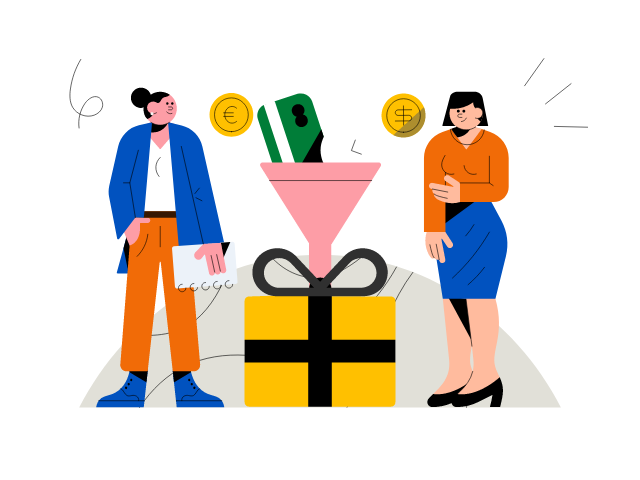
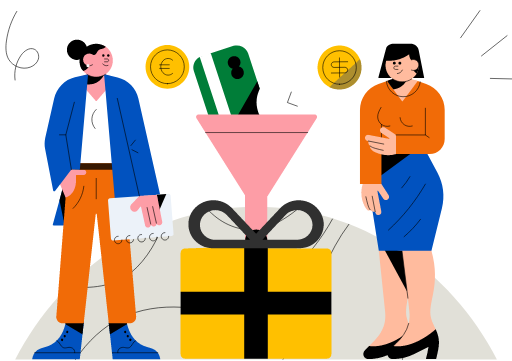
Updated 10 files and created 2 new files

diff --git a/src/modules/donations/donations.js b/src/modules/donations/donations.js
@@ -1,0 +1,121 @@
+import React, { useEffect, useRef } from 'react';
+import { Button, Divider, Input } from 'semantic-ui-react';
+
+import useMergedState from '../../utils/useMergedState';
+
+import FUNDRAISING_IMG from "../../assets/png/fundraising.png"
+import { VALIDATION_REGEX } from '../../constants/common.constants';
+import { isPositiveNumber } from '../../utils/validations';
+import { executeScrollToRef } from '../../utils/common.utils';
+import { ApiCall } from '../../utils/api.util';
+
+import "./donations.scss";
+
+const { NUMBERS_AND_EMPTY } = VALIDATION_REGEX;
+
+const Donations = () => {
+    const [state, setState] = useMergedState({
+        amount: { value: "", error: [] },
+        xummPngLink: "",
+    });
+    const amountRef = useRef();
+    const { amount, xummPngLink } = state;
+
+    useEffect(() => {
+        executeScrollToRef(amountRef);
+    }, []);
+
+    const handleAmountInput = (e, res) => {
+        const { value } = res;
+
+        if (NUMBERS_AND_EMPTY.test(value)) {
+            const { error } = isPositiveNumber(value);
+            setState({
+                amount: {
+                    error,
+                    value,
+                }
+            });
+        }
+    };
+
+    const onAmountBtnClick = (value) => setState({ amount: { value, error: [] } });
+
+    const checkFieldValues = () => {
+        let isValid = true;
+        const { error } = isPositiveNumber(amount.value);
+
+        if (error.length > 0) {
+            isValid = false;
+            setState({
+                amount: {
+                    ...amount,
+                    error,
+                }
+            });
+        };
+
+        return isValid;
+    }
+
+    const onDonationBtnClick = () => {
+        const isValid = checkFieldValues();
+
+        if (isValid) {
+            const payload = {
+                method: "POST",
+                url: "user/donate",
+                encrypt: false,
+                auth: false,
+                data: {
+                    amount: (parseFloat(amount.value) * 1000000).toString(),
+                },
+            };
+
+            ApiCall(payload)
+                .then((response) => {
+                    if (response.data) {
+                        const { png } = response.data;
+                        setState({ xummPngLink: png });
+                    }
+                }).finally(() => {
+                    executeScrollToRef(amountRef);
+                });
+        };
+    }
+
+    return (
+        <div className="donations_container">
+            <div className="donations_quote">Small steps make a big difference. <br /> Your contribution matters!</div>
+            <Divider />
+            <div className="img_container">
+                {xummPngLink.length > 0 && <div className="scan_me">Scan me using XUMM</div>}
+                <img src={xummPngLink.length > 0 ? xummPngLink : FUNDRAISING_IMG} alt="donation_img" className="img" />
+            </div>
+            <div className="input_field" ref={amountRef}>
+                <div className="label">Amount (in XRP):</div>
+                <Input
+                    placeholder="Please enter donation amount (in XRP)"
+                    name="amount"
+                    type="tel"
+                    style={{ width: "100%" }}
+                    value={amount.value}
+                    onChange={handleAmountInput}
+                    error={amount.error.length > 0}
+                />
+            </div>
+            <div className="amount_selection">
+                <Button className="amount_btn" onClick={() => onAmountBtnClick("10")}>10 XRP</Button>
+                <Button className="amount_btn" onClick={() => onAmountBtnClick("100")}>100 XRP</Button>
+                <Button className="amount_btn" onClick={() => onAmountBtnClick("1000")}>1000 XRP</Button>
+            </div>
+            <div className="donate_btn">
+                <Button color="green" onClick={onDonationBtnClick}>
+                    Donate
+                </Button>
+            </div>
+        </div>
+    );
+}
+
+export default Donations;

diff --git a/src/modules/donations/donations.scss b/src/modules/donations/donations.scss
@@ -1,0 +1,70 @@
+.donations_container {
+    display: flex;
+    line-height: 1.5;
+    flex-direction: column;
+
+    .img_container {
+        display: flex;
+        flex-direction: column;
+        justify-content: center;
+        text-align: center;
+        padding: 0 0 10px 0;
+
+        .scan_me{
+            font-size: 12px;
+            font-weight: bold;
+        }
+        
+        .img {
+            width: 200px;
+            height: 100%;
+            align-self: center;
+        }
+    }
+
+    .input_field {
+
+        .label {
+            color: var(--davys-grey);
+            padding-bottom: 4px;
+        }
+
+        input {
+            font-size: 12px;
+            border: 1px solid var(--gainsboro);
+            border-radius: 0px;
+        }
+    }
+
+    .donations_header {
+        font-size: 20px;
+        font-weight: bold;
+        text-align: center;
+    }
+
+    .donations_quote {
+        font-size: 18px;
+        color: var(--toastify-color-info);
+        text-align: center;
+    }
+
+    .amount_selection {
+        padding: 5px 0 0 0;
+
+        .amount_btn {
+            font-size: 11px;
+            padding: 5px 15px;
+            border-radius: 0px;
+        }
+    }
+
+    .donate_btn {
+        display: grid;
+        text-align: center;
+        padding: 24px;
+
+        button {
+            border-radius: 0px;
+        }
+    }
+}

diff --git a/src/routes.js b/src/routes.js
@@ -18,6 +18,7 @@ const Airdrops = React.lazy(() => import("./modules/airdrops/airdrops"));
 const DropDetails = React.lazy(() => import("./modules/airdrops/components/dropDetails/dropDetails"));
 const AirdropRegistration = React.lazy(() => import("./modules/airdrops/components/airdropRegistration/airdropRegistration"));
 const SuccessPage = React.lazy(() => import("./components/successPage/sucessPage"));
+const Donations = React.lazy(() => import("./modules/donations/donations"));
 
 export default function Routes() {
     const location = useLocation();
@@ -40,6 +41,7 @@ export default function Routes() {
                 <Route path={ROUTES.DROP_DETAILS} element={wrapWithNavBar(<DropDetails />)} />
                 <Route path={ROUTES.AIRDROP_REGISTRATION} element={wrapWithNavBar(<AirdropRegistration />)} />
                 <Route path={ROUTES.REQUEST_SUCCESS} element={wrapWithNavBar(<SuccessPage />)} />
+                <Route path={ROUTES.DONATIONS} element={wrapWithNavBar(<Donations />)} />
                 <Route path="/*" element={<div>Error</div>} />
             </RoutesBundle>
         </Suspense>

diff --git a/src/constants/common.constants.js b/src/constants/common.constants.js
@@ -13,6 +13,7 @@ export const ROUTES = {
     DROP_DETAILS: "/drop/:id",
     AIRDROP_REGISTRATION: "/airdrop/register",
     REQUEST_SUCCESS: "/request/success",
+    DONATIONS: "/donate",
 };
 
 export const ENV = process.env.NODE_ENV.toUpperCase();
@@ -39,4 +40,5 @@ export const VALIDATION_REGEX = {
     PASSWORD: /^(?=.{8,})(?=.*[a-z])(?=.*[A-Z])(?=.*[@#$%^&+=]).*$/,
     XRPL_R_ADDRESS: /^r[123456789ABCDEFGHJKLMNPQRSTUVWXYZabcdefghijkmnopqrstuvwxyz]{24,34}$/,
     URL: /[(http(s)?):\/\/(www\.)?a-zA-Z0-9@:%._\+~#=]{2,256}\.[a-z]{2,6}\b([-a-zA-Z0-9@:%_\+.~#?&//=]*)/,
+    NUMBERS_AND_EMPTY: /^(\s*|\d+)$/,
 };

diff --git a/src/components/navbar/navbar.js b/src/components/navbar/navbar.js
@@ -59,6 +59,10 @@ const Navbar = (props) => {
                         <Icon name="image outline" />
                         NFT Visualiser
                     </Menu.Item> */}
+                    <Menu.Item as="a" onClick={() => navigateTo(ROUTES.DONATIONS)}>
+                        <Icon name="heartbeat" />
+                        Donate
+                    </Menu.Item>
                     <Menu.Item as="a" onClick={onLogOutClick}>
                         <Icon name="log out" />
                         Logout

diff --git a/src/utils/validations.js b/src/utils/validations.js
@@ -86,3 +86,20 @@ export const isValidEqualValue = (value1, value2, message = "Your values don't m
         error: valid ? [] : [message],
     }
 };
+
+export const isPositiveNumber = (value, message = "Please enter a valid value.") => {
+    if (value.length === 0) {
+        return {
+            error: [message],
+            valid: false
+        }
+    };
+
+    value = parseInt(value);
+    const valid = value > 0;
+
+    return {
+        valid,
+        error: valid ? [] : [message],
+    };
+}

diff --git a/src/modules/airdrops/components/airdropRegistration/airdropRegistration.js b/src/modules/airdrops/components/airdropRegistration/airdropRegistration.js
@@ -6,7 +6,7 @@ import { Client, convertHexToString } from 'xrpl';
 
 import useMergedState from '../../../../utils/useMergedState';
 
-import AnimatedLoader from '../../../../components/AnimatedLoader/AnimatedLoader';
+import AnimatedLoader from '../../../../components/animatedLoader/animatedLoader';
 import RegistrationForm from '../registrationForm/registrationForm';
 import XPTLogoImg from "../../../../assets/svg/xpt.svg";
 

diff --git a/src/modules/xrpDetails/xrpDetaills.js b/src/modules/xrpDetails/xrpDetaills.js
@@ -2,7 +2,8 @@ import React, { useEffect } from "react";
 import { Image, Label, Table } from "semantic-ui-react";
 
 import useMergedState from "../../utils/useMergedState";
-import AnimatedLoader from "../../components/AnimatedLoader/AnimatedLoader";
+
+import AnimatedLoader from "../../components/animatedLoader/animatedLoader";
 
 import { ALTERNATIVE_ME_API_ENDPOINT, URLS } from "../../constants/common.constants";
 

diff --git a/src/modules/addAccounts/addAccount.js b/src/modules/addAccounts/addAccount.js
@@ -1,7 +1,7 @@
 import React from "react";
 
 import useMergedState from "../../utils/useMergedState";
-import AnimatedLoader from "../../components/AnimatedLoader/AnimatedLoader";
+import AnimatedLoader from "../../components/animatedLoader/animatedLoader";
 import NewAccountDetailsInputs from "./components/newAccountDetailsInputs";
 import { ADD_ACCOUNTS_INITIAL_STATE } from "../../constants/addAccounts.constants";
 

diff --git a/src/modules/airdrops/airdrops.js b/src/modules/airdrops/airdrops.js
@@ -6,7 +6,7 @@ import dateFormat from "dateformat";
 
 import useMergedState from "../../utils/useMergedState";
 
-import NoResultCard from "../../components/NoResultCard/noResultCard";
+import NoResultCard from "../../components/noResultCard/noResultCard";
 import ShimmerLoader from "../../components/shimmerLoader/shimmerLoader";
 import XPTLogoImg from "../../assets/svg/xpt.svg";
 

diff --git a/src/components/AnimatedLoader/AnimatedLoader.js b/src/components/AnimatedLoader/AnimatedLoader.js
@@ -1,9 +1,10 @@
 import React, { useEffect } from "react";
 import { Dimmer } from "semantic-ui-react";
 
-import "./AnimatedLoader.scss";
+import "./animatedLoader.scss";
 
 const AnimatedLoader = ({ loadingText, isActive }) => {
+
     useEffect(() => {
         const element = document.querySelector(".pushable");
         element.style.overflowY = isActive ? "hidden" : "auto";
